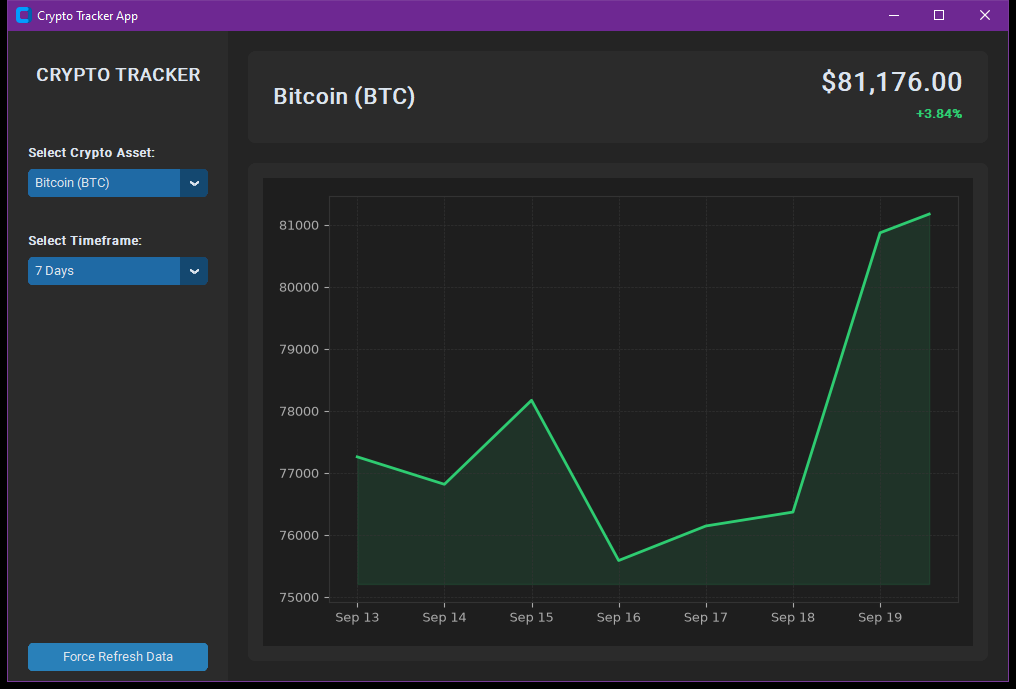
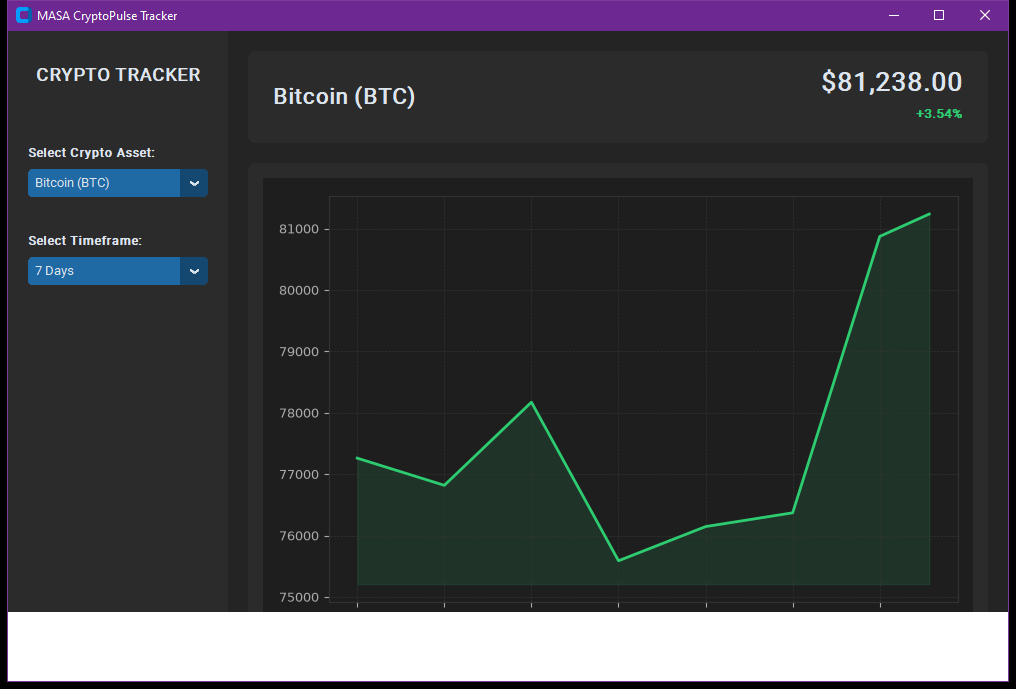
refactor: apply MASA window branding, strip comments and format code style

diff --git a/Crypto Tracker App Using Tkinter in Python/main.py b/Crypto Tracker App Using Tkinter in Python/main.py
@@ -13,22 +13,20 @@ import requests
 from matplotlib.backends.backend_tkagg import FigureCanvasTkAgg
 from matplotlib.figure import Figure
 
-# Global UI Theme Settings
 ctk.set_appearance_mode("Dark")
 ctk.set_default_color_theme("blue")
 
-# Supported Crypto Configuration Map
 CRYPTO_ASSETS = {
     "Bitcoin (BTC)": "bitcoin",
     "Ethereum (ETH)": "ethereum",
     "Solana (SOL)": "solana",
-    "Cardano (ADA)": "cardano"
+    "Cardano (ADA)": "cardano",
 }
 
 TIMEFRAMES = {
     "24 Hours": {"days": "1", "interval": "hourly", "date_fmt": "%H:%M"},
     "7 Days": {"days": "7", "interval": "daily", "date_fmt": "%b %d"},
-    "30 Days": {"days": "30", "interval": "daily", "date_fmt": "%b %d"}
+    "30 Days": {"days": "30", "interval": "daily", "date_fmt": "%b %d"},
 }
 
 
@@ -37,59 +35,55 @@ class AdvancedCryptoDashboard(ctk.CTk):
     def __init__(self):
         super().__init__()
 
-        # Main Window Configuration
-        self.title("Crypto Tracker App")
+        self.title("MASA CryptoPulse Tracker")
         self.geometry("1000x650")
         self.minsize(950, 600)
 
-        # State Properties
         self.selected_crypto_label = "Bitcoin (BTC)"
         self.selected_timeframe_label = "7 Days"
         self.current_price = 0.0
         self.price_change_24h = 0.0
 
-        # UI Architecture Layout
         self.setup_grid_layout()
         self.create_sidebar_controls()
         self.create_header_panel()
         self.create_chart_panel()
 
-        # Trigger first data ingestion
         self.update_dashboard_data()
 
     def setup_grid_layout(self):
         """Builds a responsive master grid interface layout."""
-        self.grid_columnconfigure(0, weight=0, minsize=220)  # Sidebar
-        self.grid_columnconfigure(1, weight=1)              # Main Content Area
-        
-        self.grid_rowconfigure(0, weight=0)                 # Top Header
-        self.grid_rowconfigure(1, weight=1)                 # Core Chart Canvas
+        self.grid_columnconfigure(0, weight=0, minsize=220)
+        self.grid_columnconfigure(1, weight=1)
+
+        self.grid_rowconfigure(0, weight=0)
+        self.grid_rowconfigure(1, weight=1)
 
     def create_sidebar_controls(self):
         """Creates the asset selection menu and administrative controls."""
         self.sidebar = ctk.CTkFrame(self, width=220, corner_radius=0)
         self.sidebar.grid(row=0, column=0, rowspan=2, sticky="nsew", padx=0, pady=0)
-        
-        # Branding Header
+
         brand_label = ctk.CTkLabel(
-            self.sidebar, text="CRYPTO TRACKER", 
-            font=ctk.CTkFont(size=18, weight="bold")
+            self.sidebar, text="CRYPTO TRACKER", font=ctk.CTkFont(size=18, weight="bold")
         )
         brand_label.pack(padx=20, pady=(30, 40))
 
-        # Dropdown Label 1: Currency Selection
-        crypto_lbl = ctk.CTkLabel(self.sidebar, text="Select Crypto Asset:", font=ctk.CTkFont(size=12, weight="bold"))
+        crypto_lbl = ctk.CTkLabel(
+            self.sidebar, text="Select Crypto Asset:", font=ctk.CTkFont(size=12, weight="bold")
+        )
         crypto_lbl.pack(anchor="w", padx=20, pady=(10, 2))
-        
+
         self.crypto_dropdown = ctk.CTkOptionMenu(
             self.sidebar, values=list(CRYPTO_ASSETS.keys()), command=self.on_crypto_changed
         )
         self.crypto_dropdown.pack(fill="x", padx=20, pady=(0, 20))
 
-        # Dropdown Label 2: Historical Range
-        time_lbl = ctk.CTkLabel(self.sidebar, text="Select Timeframe:", font=ctk.CTkFont(size=12, weight="bold"))
+        time_lbl = ctk.CTkLabel(
+            self.sidebar, text="Select Timeframe:", font=ctk.CTkFont(size=12, weight="bold")
+        )
         time_lbl.pack(anchor="w", padx=20, pady=(10, 2))
-        
+
         self.time_dropdown = ctk.CTkOptionMenu(
             self.sidebar, values=list(TIMEFRAMES.keys()), command=self.on_timeframe_changed
         )
@@ -97,7 +91,11 @@ class AdvancedCryptoDashboard(ctk.CTk):
         self.time_dropdown.pack(fill="x", padx=20, pady=(0, 40))
 
         self.refresh_btn = ctk.CTkButton(
-            self.sidebar, text="Force Refresh Data", command=self.update_dashboard_data, fg_color="#2980b9", hover_color="#3498db"
+            self.sidebar,
+            text="Force Refresh Data",
+            command=self.update_dashboard_data,
+            fg_color="#2980b9",
+            hover_color="#3498db",
         )
         self.refresh_btn.pack(fill="x", padx=20, pady=10, side="bottom")
 
@@ -107,20 +105,22 @@ class AdvancedCryptoDashboard(ctk.CTk):
         self.header_frame.grid(row=0, column=1, padx=20, pady=(20, 10), sticky="nsew")
         self.header_frame.grid_propagate(False)
 
-        # Asset Labeling
         self.asset_title = ctk.CTkLabel(
             self.header_frame, text=self.selected_crypto_label, font=ctk.CTkFont(size=22, weight="bold")
         )
         self.asset_title.pack(side="left", padx=25, pady=20)
 
-        # Metrics Values Stack
         self.metrics_box = ctk.CTkFrame(self.header_frame, fg_color="transparent")
         self.metrics_box.pack(side="right", padx=25, pady=15)
 
-        self.price_display = ctk.CTkLabel(self.metrics_box, text="$0.00", font=ctk.CTkFont(size=26, weight="bold"))
+        self.price_display = ctk.CTkLabel(
+            self.metrics_box, text="$0.00", font=ctk.CTkFont(size=26, weight="bold")
+        )
         self.price_display.pack(anchor="e")
 
-        self.change_display = ctk.CTkLabel(self.metrics_box, text="0.00%", font=ctk.CTkFont(size=13, weight="bold"))
+        self.change_display = ctk.CTkLabel(
+            self.metrics_box, text="0.00%", font=ctk.CTkFont(size=13, weight="bold")
+        )
         self.change_display.pack(anchor="e", pady=(2, 0))
 
     def create_chart_panel(self):
@@ -128,22 +128,18 @@ class AdvancedCryptoDashboard(ctk.CTk):
         self.chart_frame = ctk.CTkFrame(self, corner_radius=8)
         self.chart_frame.grid(row=1, column=1, padx=20, pady=(10, 20), sticky="nsew")
 
-        # Configure Matplotlib Canvas Space
         self.fig = Figure(figsize=(7, 4), dpi=100, facecolor="#1e1e1e")
         self.ax = self.fig.add_subplot(111)
         self.ax.set_facecolor("#1e1e1e")
-        
-        # Format grids and borders
+
         self.ax.grid(True, color="#333333", linestyle="--", linewidth=0.5)
         for spine in self.ax.spines.values():
             spine.set_color("#333333")
         self.ax.tick_params(colors="#aaaaaa", labelsize=9)
 
-        # Pack component into frame structure
         self.canvas = FigureCanvasTkAgg(self.fig, master=self.chart_frame)
         self.canvas.get_tk_widget().pack(fill=tk.BOTH, expand=True, padx=15, pady=15)
 
-    # Event Handlers
     def on_crypto_changed(self, choice):
         self.selected_crypto_label = choice
         self.asset_title.configure(text=choice)
@@ -153,27 +149,24 @@ class AdvancedCryptoDashboard(ctk.CTk):
         self.selected_timeframe_label = choice
         self.update_dashboard_data()
 
-    # Core Logic & Network Operations
     def fetch_market_intelligence(self):
         """Pulls structural spot prices and historical intervals with robust error handling."""
         coin_id = CRYPTO_ASSETS[self.selected_crypto_label]
         tf_settings = TIMEFRAMES[self.selected_timeframe_label]
 
-        # Explicit Request Headers to minimize server drops
         headers = {
             "User-Agent": "Mozilla/5.0 (Windows NT 10.0; Win64; x64) AppleWebKit/537.36 (KHTML, like Gecko) Chrome/120.0.0.0 Safari/537.36",
-            "Accept": "application/json"
+            "Accept": "application/json",
         }
 
         try:
-            # 1. Ingest Ticker Metrics
             ticker_url = f"https://api.coingecko.com/api/v3/simple/price?ids={coin_id}&vs_currencies=usd&include_24hr_change=true"
             res_ticker = requests.get(ticker_url, headers=headers, timeout=10)
-            
+
             if res_ticker.status_code != 200:
                 print(f"API Warning: Ticker status returned {res_ticker.status_code}", file=sys.stderr)
                 return None
-                
+
             ticker_data = res_ticker.json()
             if coin_id not in ticker_data:
                 print(f"API Structure Mismatch: Key '{coin_id}' not found.", file=sys.stderr)
@@ -182,11 +175,10 @@ class AdvancedCryptoDashboard(ctk.CTk):
             self.current_price = ticker_data[coin_id]["usd"]
             self.price_change_24h = ticker_data[coin_id].get("usd_24h_change", 0.0)
 
-            # 2. Ingest Range Vector Data Matrices
             chart_url = f"https://api.coingecko.com/api/v3/coins/{coin_id}/market_chart?vs_currency=usd&days={tf_settings['days']}"
-            if tf_settings['interval'] == "daily":
+            if tf_settings["interval"] == "daily":
                 chart_url += "&interval=daily"
-                
+
             res_chart = requests.get(chart_url, headers=headers, timeout=10)
             if res_chart.status_code != 200:
                 print(f"API Warning: Chart status returned {res_chart.status_code}", file=sys.stderr)
@@ -196,15 +188,13 @@ class AdvancedCryptoDashboard(ctk.CTk):
             if "prices" not in chart_data:
                 print("API Structure Mismatch: Missing core 'prices' array data.", file=sys.stderr)
                 return None
-                
+
             prices_arr = chart_data["prices"]
 
-            # Parse array results into structural Pandas format
             df = pd.DataFrame(prices_arr, columns=["timestamp", "price"])
             df["datetime"] = pd.to_datetime(df["timestamp"], unit="ms")
-            
-            # Compress massive high-density index lists on the 24h timeline
-            if tf_settings['days'] == "1" and len(df) > 50:
+
+            if tf_settings["days"] == "1" and len(df) > 50:
                 df = df.iloc[::4].reset_index(drop=True)
 
             return df
@@ -221,11 +211,11 @@ class AdvancedCryptoDashboard(ctk.CTk):
         df = self.fetch_market_intelligence()
 
         if df is not None and not df.empty:
-            # Format decimals dynamically based on absolute token values
-            fmt_str = f"${self.current_price:,.4f}" if self.current_price < 2 else f"${self.current_price:,.2f}"
+            fmt_str = (
+                f"${self.current_price:,.4f}" if self.current_price < 2 else f"${self.current_price:,.2f}"
+            )
             self.price_display.configure(text=fmt_str)
 
-            # Color update elements based on positive/negative trends
             if self.price_change_24h >= 0:
                 self.change_display.configure(text=f"+{self.price_change_24h:.2f}%", text_color="#2ecc71")
                 trend_color = "#2ecc71"
@@ -233,33 +223,27 @@ class AdvancedCryptoDashboard(ctk.CTk):
                 self.change_display.configure(text=f"{self.price_change_24h:.2f}%", text_color="#e74c3c")
                 trend_color = "#e74c3c"
 
-            # Re-draw the visualization trend line
             self.ax.clear()
             self.ax.set_facecolor("#1e1e1e")
             self.ax.grid(True, color="#333333", linestyle="--", linewidth=0.5)
 
             self.ax.plot(df["datetime"], df["price"], color=trend_color, linewidth=2)
             self.ax.fill_between(
-                df["datetime"], df["price"], df["price"].min() * 0.995, 
-                color=trend_color, alpha=0.12
+                df["datetime"], df["price"], df["price"].min() * 0.995, color=trend_color, alpha=0.12
             )
 
-            # Re-apply date styling depending on selection
             date_format = TIMEFRAMES[self.selected_timeframe_label]["date_fmt"]
             self.ax.xaxis.set_major_formatter(mdates.DateFormatter(date_format))
             self.ax.tick_params(colors="#aaaaaa", labelsize=9)
-            
+
             self.fig.tight_layout()
             self.canvas.draw()
         else:
-            # Graceful warning if rate limited or connection drops
             self.price_display.configure(text="Sync Delayed")
             self.change_display.configure(text="Rate Limited (120s Auto-Retry)", text_color="#f39c12")
 
-        # Re-enable the interactive data sync controls
         self.refresh_btn.configure(state="normal", text="Force Refresh Data")
-        
-        # Recurse routine loops every 2 minutes (120000ms) to bypass public rate limitations safely
+
         self.after(120000, self.update_dashboard_data)
 
 
